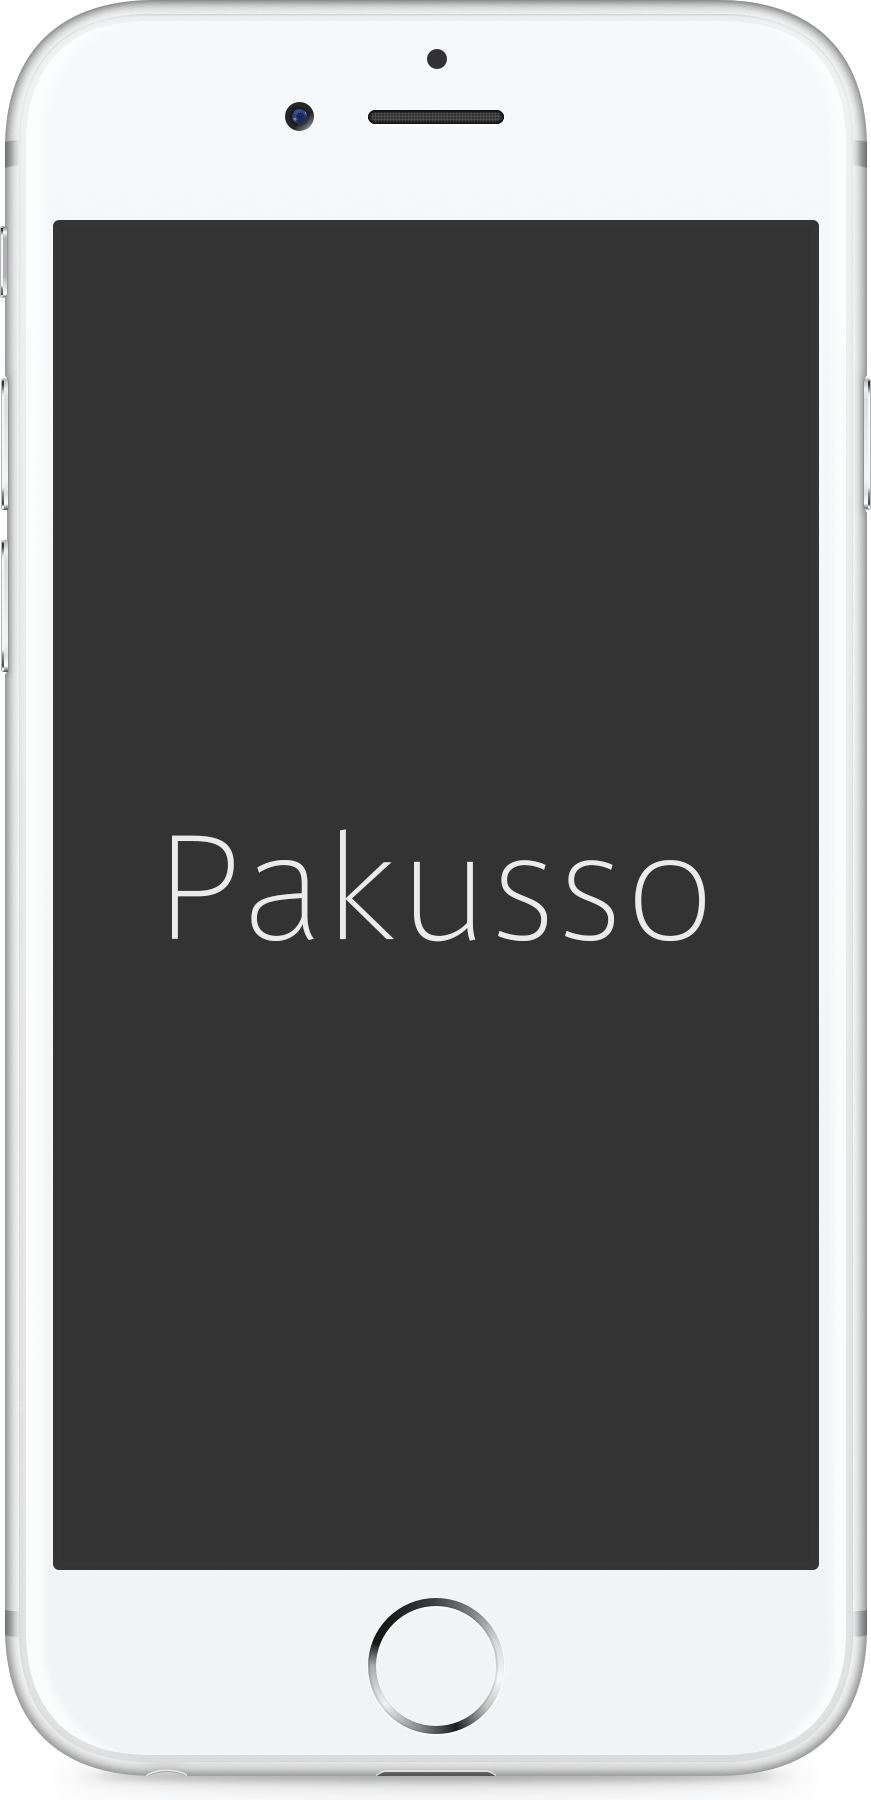
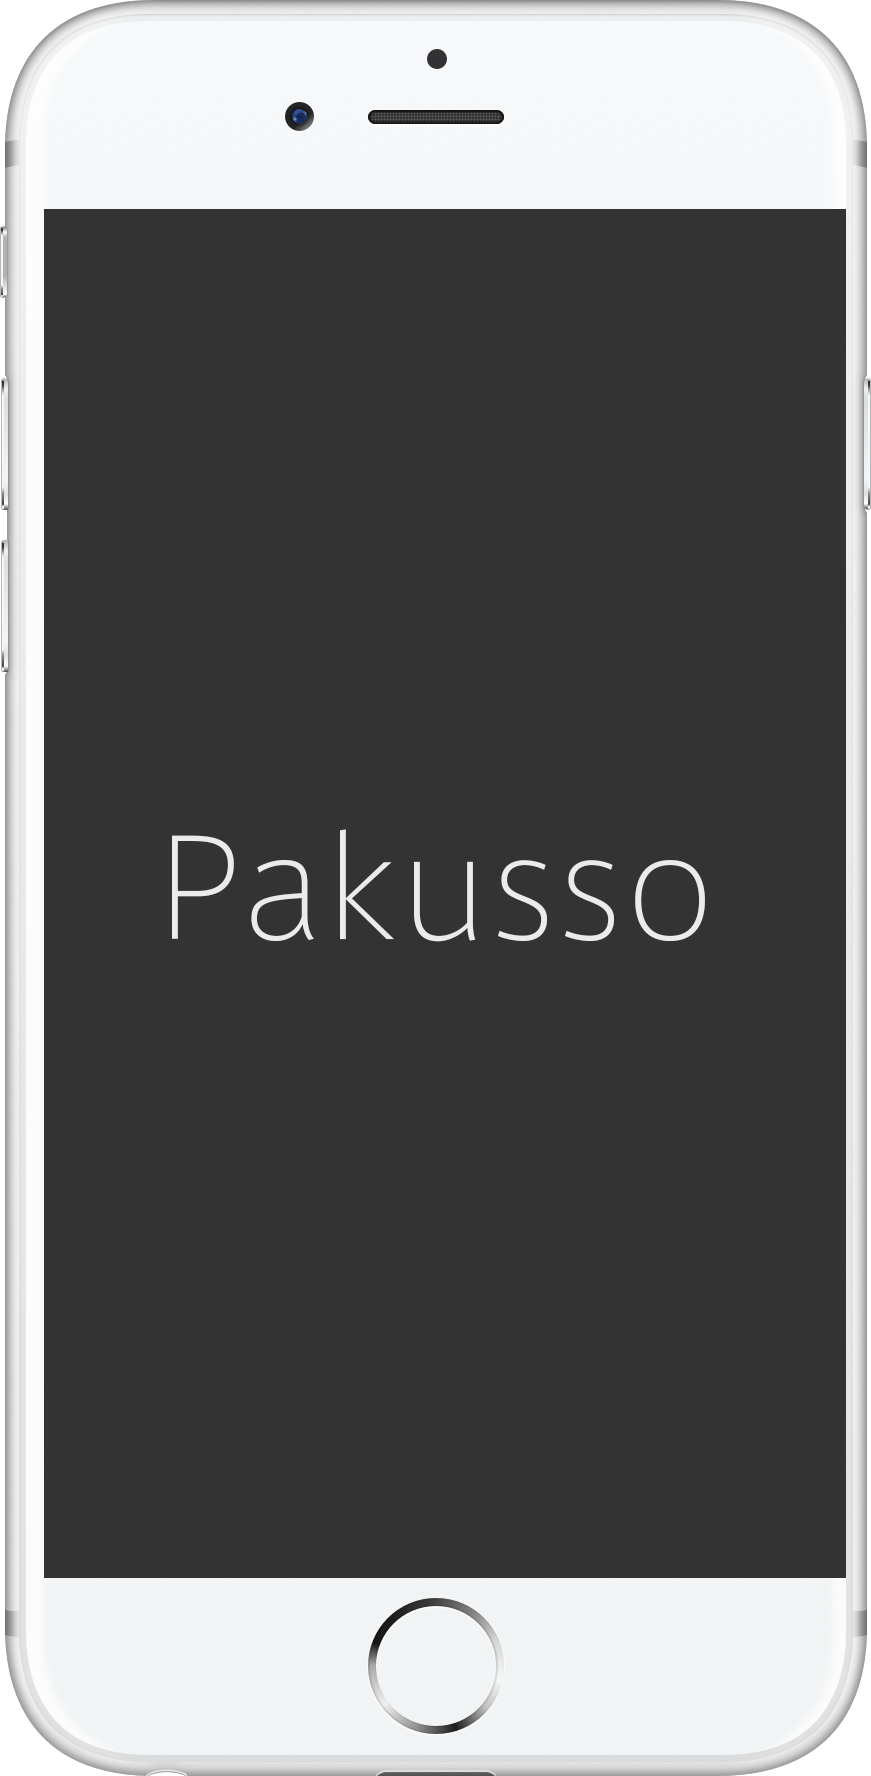
modify typo css

Changed region(s): [[0.0, 0.0929, 1.0, 1.0], [0.403, 0.4645, 0.806, 0.5265], [0.186, 0.4645, 0.372, 0.5265]]

diff --git a/public/index.html b/public/index.html
@@ -15,13 +15,13 @@
     <div class="pks-wrapper">
       <main class="pks-main">
         <div class="pks-main__box">
-          <h1 class="pks-main__box-title pks-main__box-title--h1">Pakusso</h1>
+          <h1 class="pks--typography--text-indent pks--typography--body-1">Pakusso</h1>
         </div>
         <div class="pks-main__box">
-          <h2 class="pks--typography--text-center">この春、Pakussoから、新しいパクリサイトが生まれます</h2>
-          <p class="pks--typography--text-center">アプリをリリース致しました。</p>
+          <h2 class="pks--typography--body-2 pks--typography--text-center">この春、Pakussoから、新しいパクリサイトが生まれます</h2>
+          <h3 class="pks--typography--body-3 pks--typography--text-center">アプリをリリース致しました。</h3>
           <div class="pks-main__sns"></div>
-          <div class="pks-main__download pks--typography--text-center"><a href="" target="_blank" class="pks-main__download-link pks-main__download-link--appStore">AppStoreからダウンロード</a></div>
+          <div class="pks-main__download pks--typography--text-center"><a href="" target="_blank" class="pks-main__download-link pks-main__download-link--appStore pks--typography--text-indent">AppStoreからダウンロード</a></div>
         </div>
       </main>
       <footer class="pks-footer">

diff --git a/resources/sass/style.scss b/resources/sass/style.scss
@@ -2,19 +2,45 @@ body {
 	background: linear-gradient(to bottom, #5CACD1 0%, #247ECC 100%);
 }
 
-.pks--typography--text-center {
-	text-align: center;
+.pks--typography {
+	&--body {
+		&-1 {
+			width: 320px;
+			height: 632px;
+			background-image: url("/images/device.png");
+			background-size: 320px 632px;
+			background-position: center;
+			margin: 0 auto;
+		}
+
+		&-2 {
+			color: #fff;
+		}
+
+		&-3 {
+			color: #fff;
+		}
+
+	}
+
+	&--text {
+		&-indent {
+			text-indent: -9999px;
+		}
+
+		&-center {
+			text-align: center;
+		}
+	}
 }
 
 .pks-container {
 	width: 100%;
-	background: #ccc;
 }
 
 .pks-wrapper {
 	width: 1180px;
 	margin: 30px auto 0;
-	
 }
 
 .pks-main {
@@ -27,20 +53,6 @@ body {
 
 	&__box {
 		flex-grow: 1;
-		background: #ffd;
-		border: 1px solid #000;
-
-		&-title {
-			text-indent: -9999px;
-			&--h1 {
-				width: 320px;
-    			height: 632px;
-				background-image: url("/images/device.png");
-				background-size: 320px 632px;
-				background-position: center;
-				margin: 0 auto;
-			}
-		}
 	}
 
 	&__sns {
@@ -52,7 +64,6 @@ body {
 
 		&-link {
 			display: inline-block;
-			text-indent: -9999px;
 
 			&--appStore {
 				width: 200px;

diff --git a/public/css/style.css b/public/css/style.css
@@ -3,13 +3,29 @@ body {
   background: linear-gradient(to bottom, #5CACD1 0%, #247ECC 100%);
 }
 
+.pks--typography--body-1 {
+  width: 320px;
+  height: 632px;
+  background-image: url("/images/device.png");
+  background-size: 320px 632px;
+  background-position: center;
+  margin: 0 auto;
+}
+.pks--typography--body-2 {
+  color: #fff;
+}
+.pks--typography--body-3 {
+  color: #fff;
+}
+.pks--typography--text-indent {
+  text-indent: -9999px;
+}
 .pks--typography--text-center {
   text-align: center;
 }
 
 .pks-container {
   width: 100%;
-  background: #ccc;
 }
 
 .pks-wrapper {
@@ -39,26 +55,12 @@ body {
   -webkit-box-flex: 1;
       -ms-flex-positive: 1;
           flex-grow: 1;
-  background: #ffd;
-  border: 1px solid #000;
-}
-.pks-main__box-title {
-  text-indent: -9999px;
-}
-.pks-main__box-title--h1 {
-  width: 320px;
-  height: 632px;
-  background-image: url("/images/device.png");
-  background-size: 320px 632px;
-  background-position: center;
-  margin: 0 auto;
 }
 .pks-main__download {
   width: 100%;
 }
 .pks-main__download-link {
   display: inline-block;
-  text-indent: -9999px;
 }
 .pks-main__download-link--appStore {
   width: 200px;
